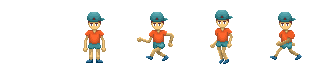
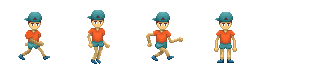
initializer list animations

diff --git a/src/Enemy.cpp b/src/Enemy.cpp
@@ -114,17 +114,21 @@ void Enemy::OnUpdate(int time_ms)
 
 	Character::OnUpdate(time_ms);
 	wayAge += time_ms*0.001;
-	is_praying = false;
+	if (getPosAfterX() == getPosBeforeX()
+	    && getPosAfterY() == getPosBeforeY()
+	    && way.empty()) {
+		is_praying = false;
+	}
 	if (is_praying) {
-		AnimateFrames(time_ms,1,2);
+		AnimateFrames(time_ms,{1,2});
 	} else {
 
 		if (view_dir_x == 0 && view_dir_y < 0) {
-			AnimateFrames(time_ms,6,7);
+			AnimateFrames(time_ms,{6,7});
 		} else if (view_dir_x == 0 && view_dir_y) {
-			AnimateFrames(time_ms,8,10);
+			AnimateFrames(time_ms,{8,9});
 		} else {
-			AnimateFrames(time_ms,3,5);
+			AnimateFrames(time_ms,{3,4,5,4});
 		}
 	}
 	if (!way.empty()) {

diff --git a/src/Character.cpp b/src/Character.cpp
@@ -483,10 +483,11 @@ void Character::Win() {
 		
 }
 
-void Character::AnimateFrames(int time_ms, int first, int last, int fps)
+void Character::AnimateFrames(int time_ms, const std::vector<int> & frames, int fps)
 {
 	animation_prog_ms += time_ms;
-	int frame_curr = animation_prog_ms / (1000 / fps) % (last - first + 1) + first;
+	int frame_curr = animation_prog_ms / (1000 / fps) % (frames.size());
+	frame_curr = frames[frame_curr];
 	printf("%d %d\n", frame_curr,time_ms / (1000 / fps) );
 	_texture->setTileIdx(frame_curr);
 

diff --git a/src/Character.h b/src/Character.h
@@ -114,7 +114,7 @@ private:
 	int _pos_after_y;
 	int animation_prog_ms;
 protected:
-	void AnimateFrames(int time_ms, int first, int last, int fps=5);
+	void AnimateFrames(int time_ms, const std::vector<int> & frames, int fps=5);
 	int view_dir_x;
 	int view_dir_y;
 	int last_dir_x;

diff --git a/src/Player.cpp b/src/Player.cpp
@@ -85,6 +85,14 @@ void Player::OnUpdate(int time_ms)
 		}
 	}
 
+	if (getPosAfterX() == getPosBeforeX()
+	    && getPosAfterY() == getPosBeforeY()) {
+		_texture->setTileIdx(3);
+			
+	} else {
+		AnimateFrames(time_ms,{0,1,2,1});
+	}
+
 	Character::OnUpdate(time_ms);
 }
 
